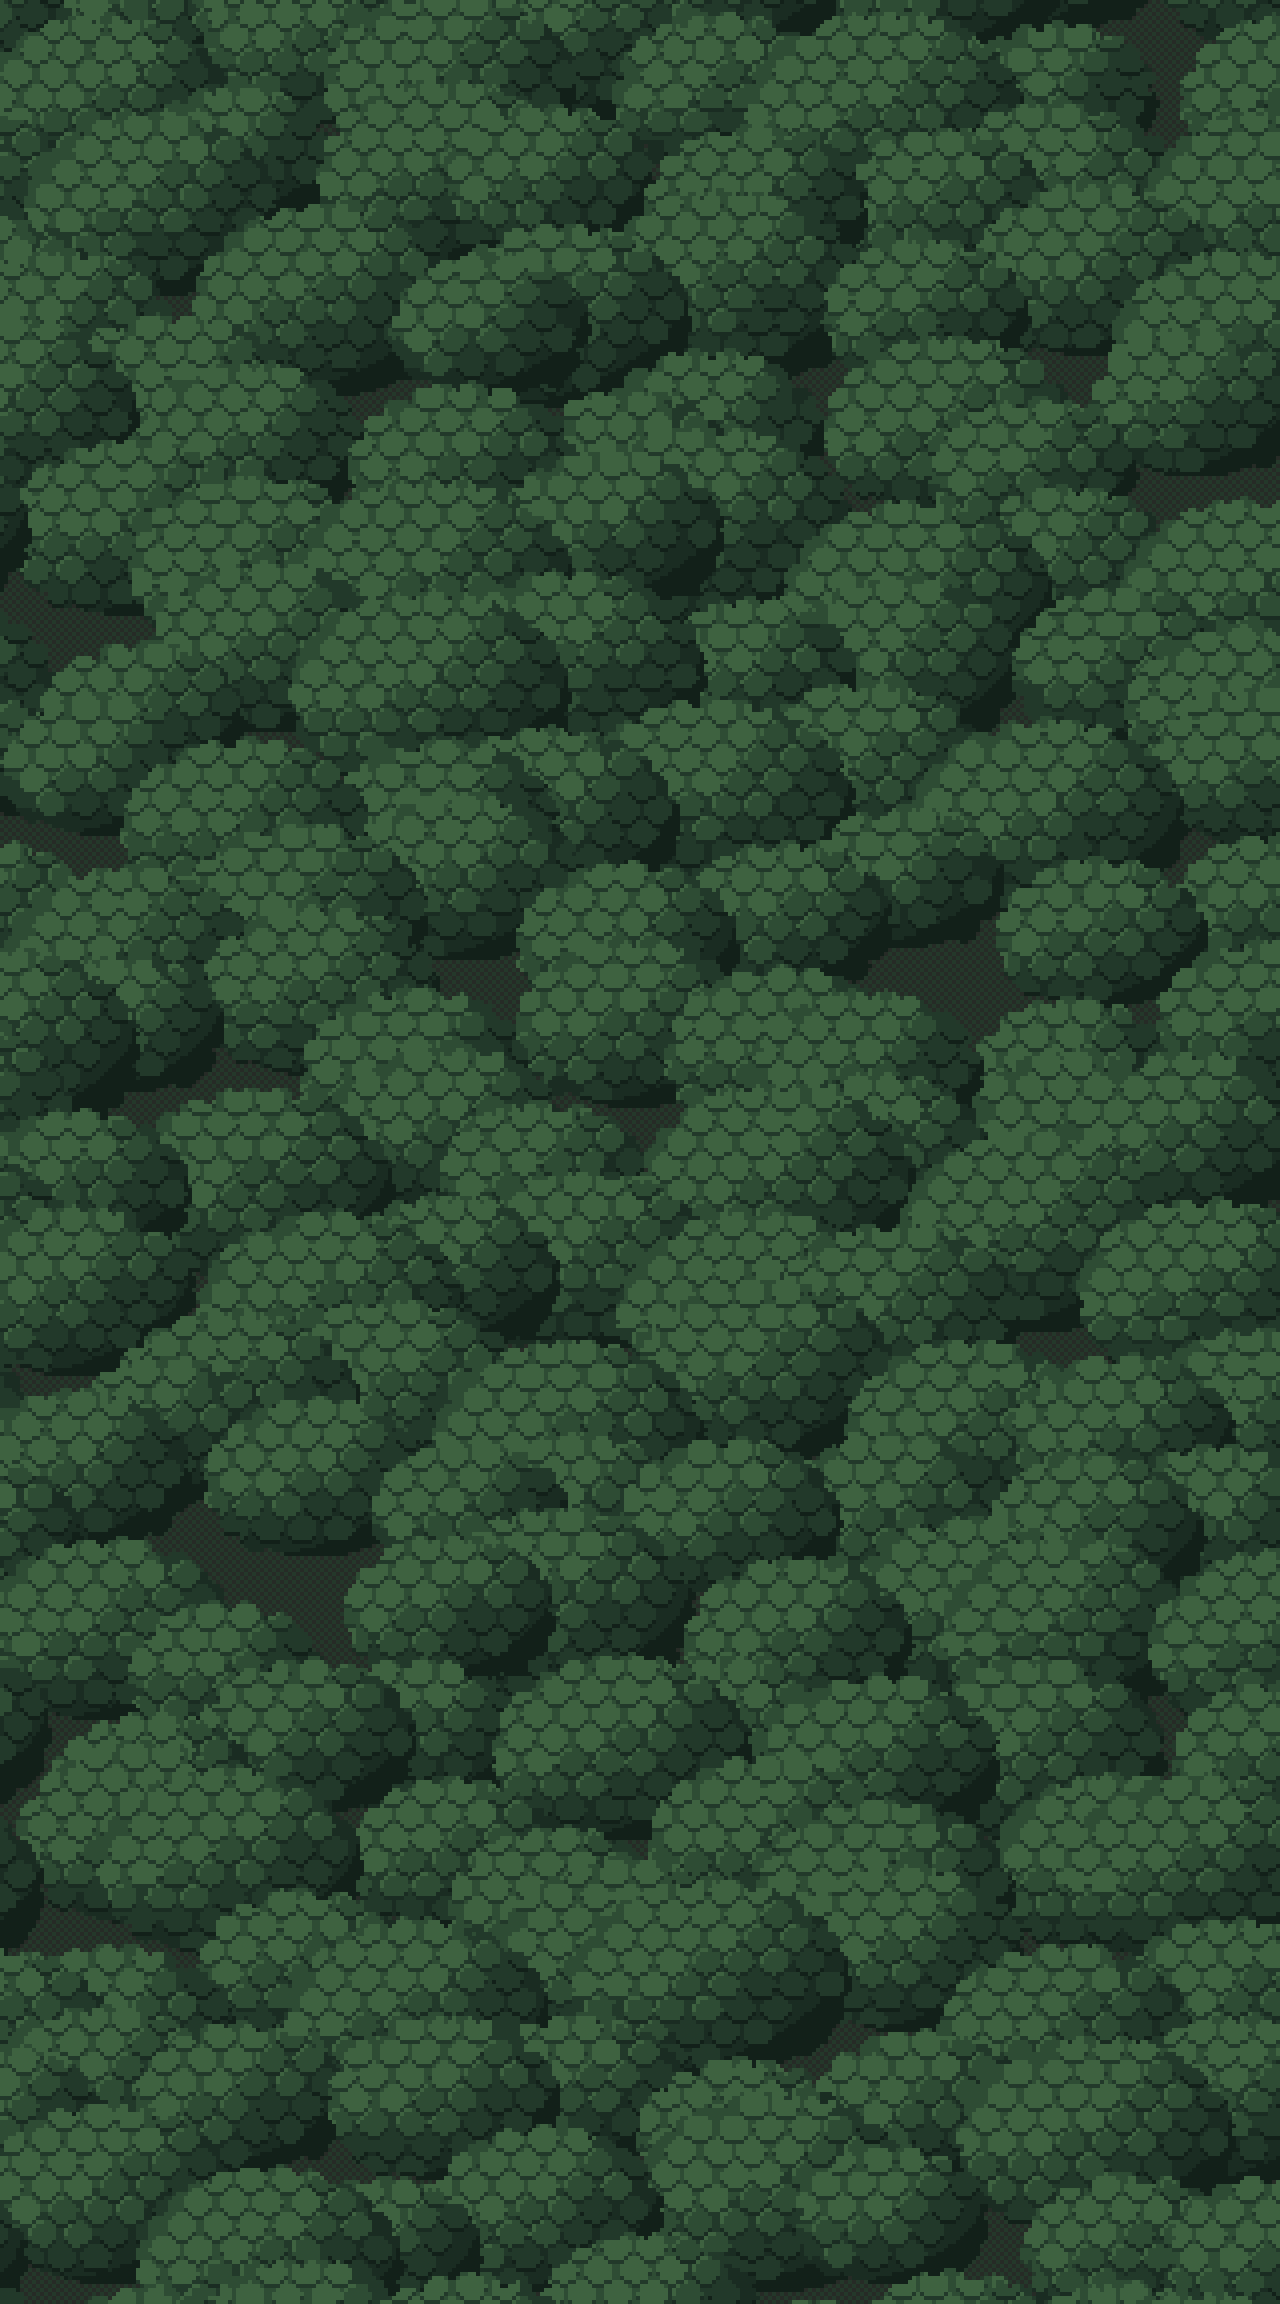
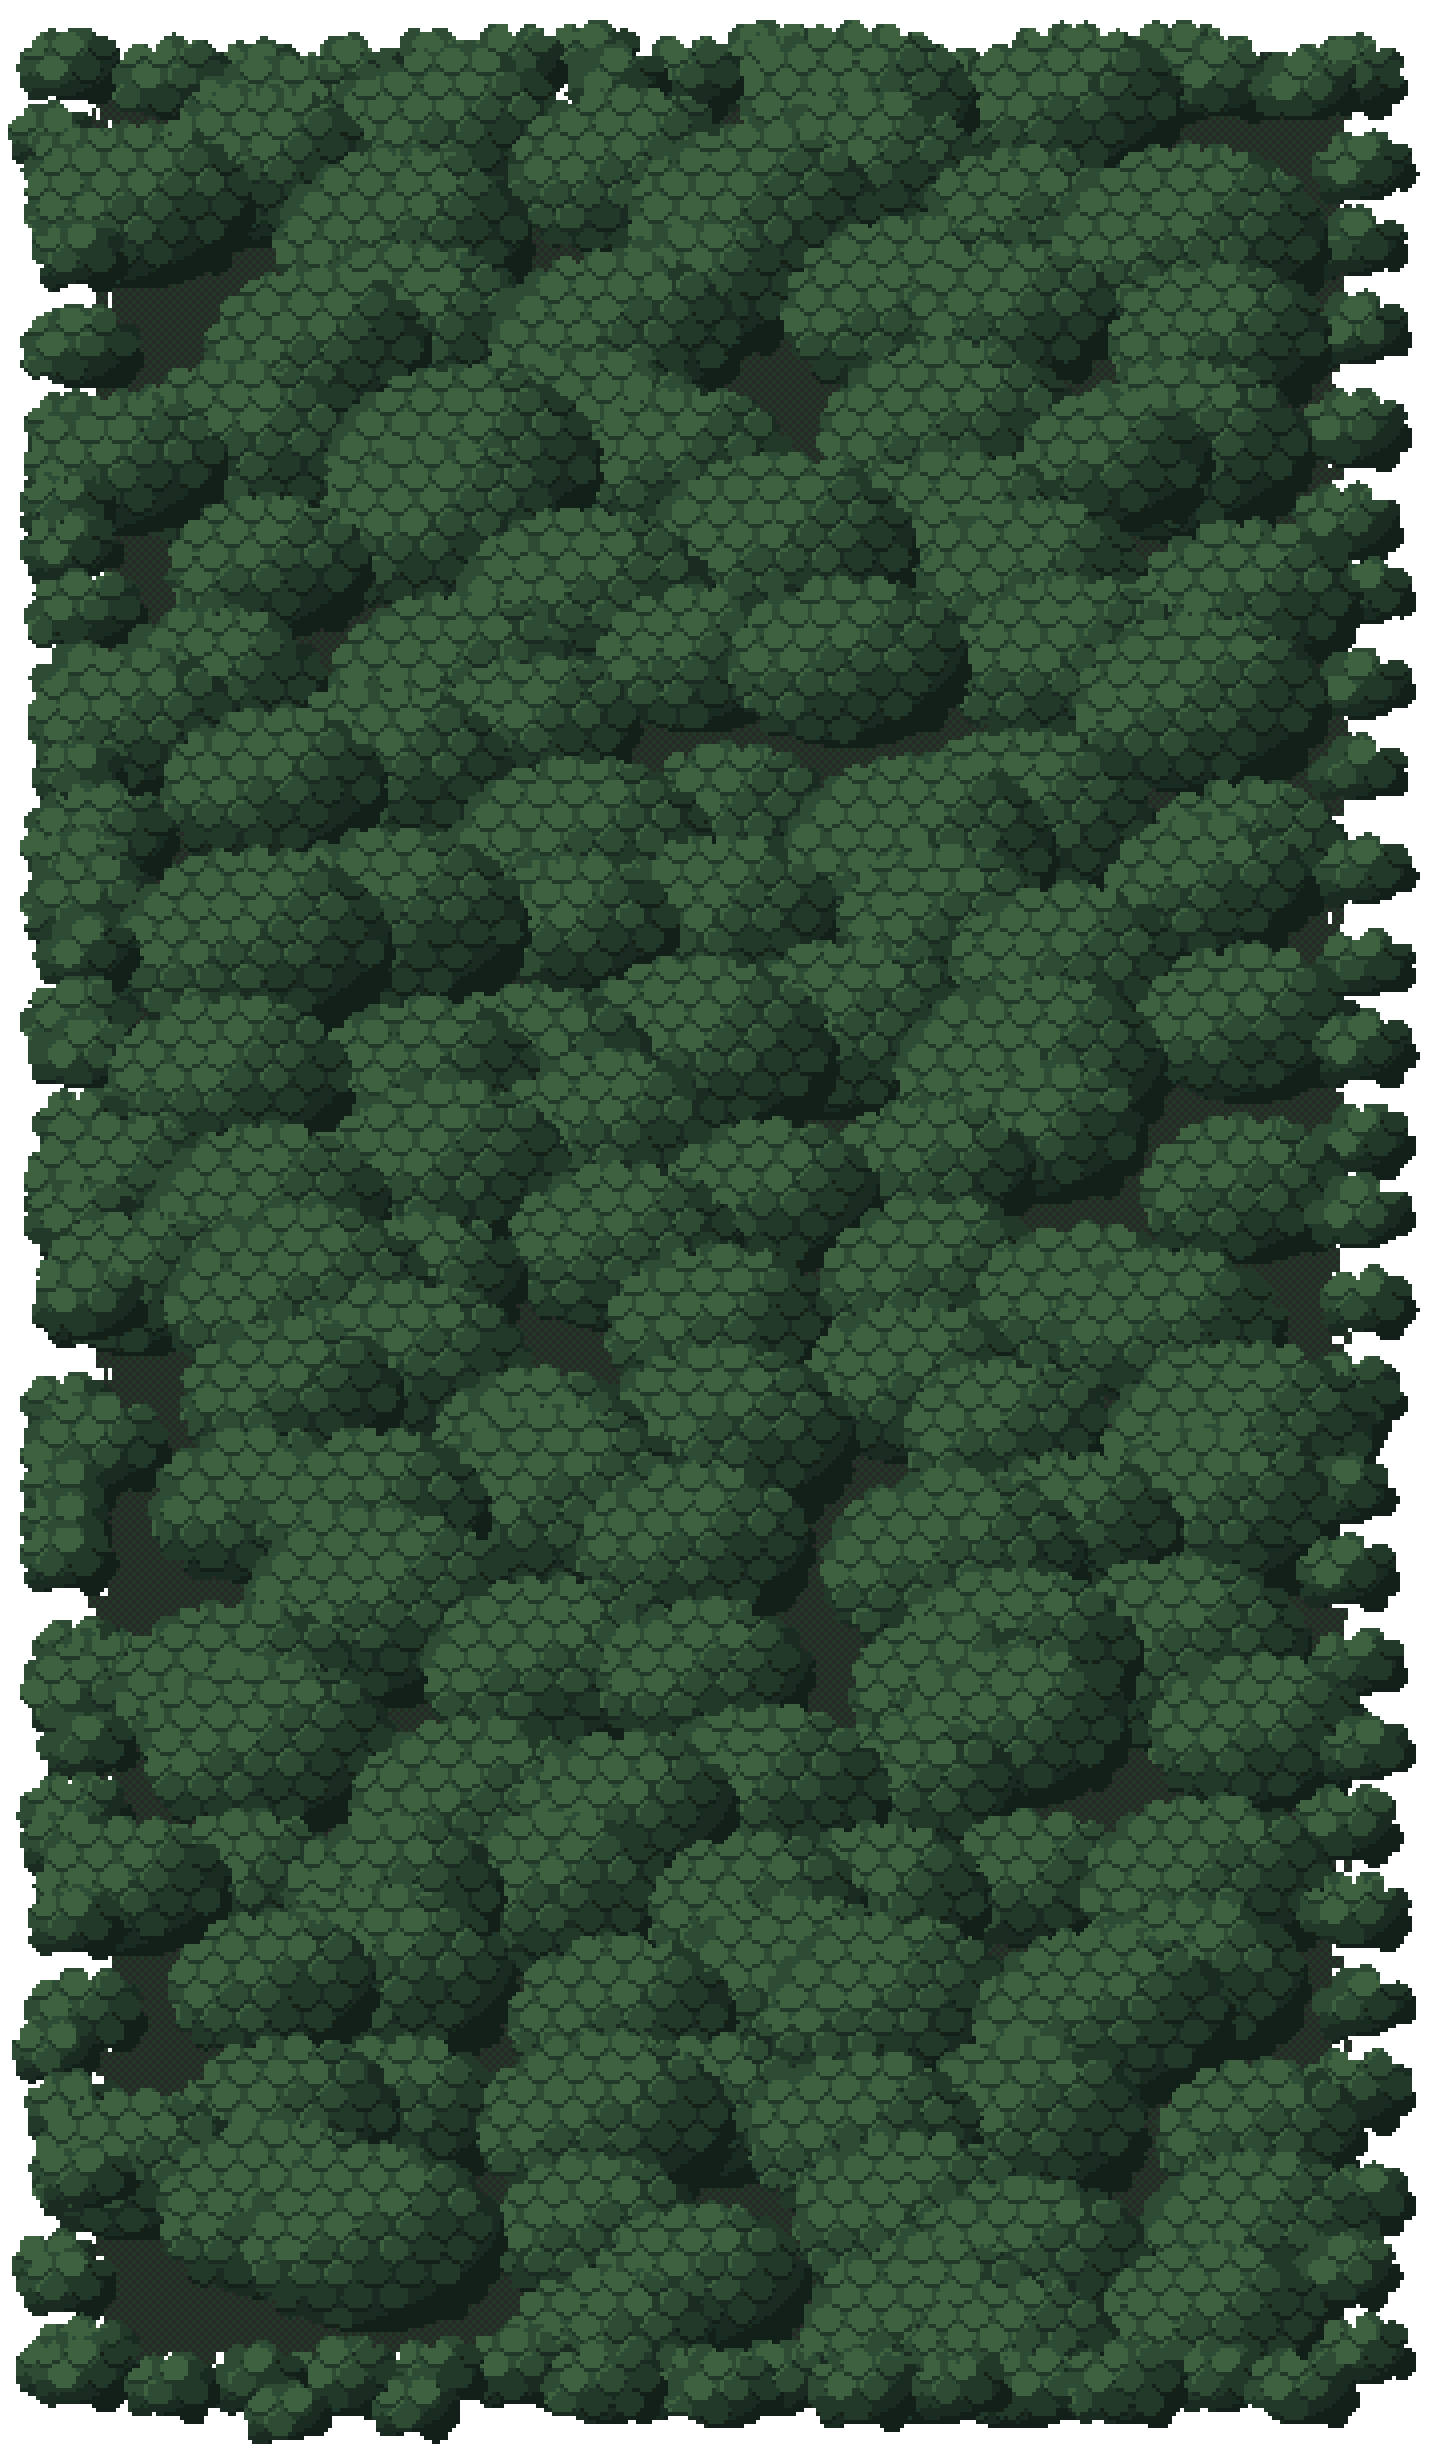
The old forest's edge is grown, not cut: its crowns spill a little over the zones beside it
Claude-Session: https://claude.ai/code/session_01UudrmtYkicLNgZeuSjvjrK

diff --git a/components/atlas-walk.tsx b/components/atlas-walk.tsx
@@ -35,7 +35,7 @@ import {
   type TileId,
 } from '@/lib/region-walk';
 import { zoneMaps, zoneOverhead, zoneWindows } from '@/lib/zone-maps';
-import { zoneBeyond, zoneGrounds, zoneProps } from '@/lib/zone-assets';
+import { BEYOND_SPILL, zoneBeyond, zoneGrounds, zoneProps } from '@/lib/zone-assets';
 import { GuardianPet } from '@/components/guardian-pet';
 import { ZoneLife, ZoneResidents } from '@/components/atlas-life';
 import { Pet } from '@/components/game-ui';
@@ -482,11 +482,13 @@ export function AtlasWalk({
               source={zoneBeyond}
               resizeMode="stretch"
               style={{
+                // its crowns spill over the zones beside it (above their ground, under their props)
                 position: 'absolute',
-                left: snap((g.col - bounds.minCol) * TILE.width * u),
-                top: snap((g.row - bounds.minRow) * TILE.height * u),
-                width: snap(TILE.width * u),
-                height: snap(TILE.height * u),
+                left: snap(((g.col - bounds.minCol) * TILE.width - BEYOND_SPILL) * u),
+                top: snap(((g.row - bounds.minRow) * TILE.height - BEYOND_SPILL) * u),
+                width: snap((TILE.width + 2 * BEYOND_SPILL) * u),
+                height: snap((TILE.height + 2 * BEYOND_SPILL) * u),
+                zIndex: 1,
               }}
             />
           ))}

diff --git a/lib/zone-assets.ts b/lib/zone-assets.ts
@@ -281,6 +281,7 @@ export const zoneGrounds: Record<ZoneId, ImageSourcePropType> = {
 import beyondImage from '@/assets/zones/beyond.png';
 /** Old forest, drawn where a region's grid has no zone (the valley's corners). */
 export const zoneBeyond: ImageSourcePropType = beyondImage;
+export const BEYOND_SPILL = 20;
 export const zoneProps: Record<string, ImageSourcePropType> = {
   acacia: propAcacia,
   airlock: propAirlock,

diff --git a/scripts/art/zones.py b/scripts/art/zones.py
@@ -3188,28 +3188,51 @@ def rle(row: str) -> str:
     return ''.join(out)
 
 
+BEYOND_SPILL = 20  # how far the forest's crowns spill over the zones beside it
+
+
 @functools.lru_cache(maxsize=1)
 def beyond() -> Canvas:
     """What lies past a region's own zones where its grid has a gap (the valley's corners):
-    old forest, a closed canopy of leaf masses in deep shade, lit only at their crowns,
-    each row overlapping the one behind it."""
-    cv = Canvas(W, H)
-    for y in range(H):
-        for x in range(W):
+    old forest, a closed canopy of leaf masses in deep shade, each row overlapping the
+    one behind it. Its outermost crowns spill a little over the neighbouring zones, so
+    the forest's edge is grown, not cut; the canvas is the zone plus that spill all round."""
+    S = BEYOND_SPILL
+    cv = Canvas(W + 2 * S, H + 2 * S)
+    for y in range(S, H + S):
+        for x in range(S, W + S):
+            # the shade under the canopy, its edge ragged so no straight line shows
+            m = 2 + int(noise2(x // 3, y // 3, 553) * 7)
+            if min(x - S, W + S - 1 - x, y - S, H + S - 1 - y) < m:
+                continue
             cv.set(x, y, style.FOREST_DARK if (x + y) % 2 else '#24382A')
     ramp = ['#122019', '#1A2C22', '#22392A', '#2E4C34', '#3E6240']
     crowns = []
     k = 0
-    for gy in range(-10, H + 30, 30):  # crowns on a jittered grid, so the canopy closes
-        for gx in range(-10, W + 30, 40):
+    for gy in range(S + 4, H + S, 30):  # crowns on a jittered grid, so the canopy closes
+        for gx in range(S + 6, W + S, 40):
             crowns.append((gy + (noise2(k, 1, 552) - 0.5) * 22, gx + (noise2(k, 0, 552) - 0.5) * 28,
                            22 + noise2(k, 2, 552) * 12, k))
             k += 1
+    for t in range(0, max(W, H) + 1, 22):  # small crowns straddling the edge all round
+        for (ex, ey) in ((S + t, S), (S + t, H + S), (S, S + t), (W + S, S + t)):
+            if S <= ex <= W + S and S <= ey <= H + S:
+                crowns.append((ey + (noise2(t, ex, 554) - 0.5) * 6, ex + (noise2(t, ey, 554) - 0.5) * 6,
+                               9 + noise2(ex, ey, 555) * 4, k))
+                k += 1
     for (cy, cx, rx, k) in sorted(crowns):
+        # crowns by the edge stay inside the canvas, so the spill ends in round crowns
+        rx = max(8.0, min(rx, cx - 8, cv.w - cx - 8, (cy - 8) / 0.72, (cv.h - cy - 8) / 0.72))
         ry = rx * 0.72
         blob = Canvas(int(rx * 2) + 14, int(ry * 2) + 14)
         style.leafy(blob, blob.w / 2, blob.h / 2, rx, ry, ramp, r=3.8, seed=k + 3)
-        cv.paste(blob, int(cx - blob.w / 2), int(cy - blob.h / 2))
+        bx, by = int(cx - blob.w / 2), int(cy - blob.h / 2)
+        for yy in range(blob.h):
+            for xx in range(blob.w):
+                c = blob.get(xx, yy)
+                X, Y = bx + xx, by + yy
+                if c[3] and 0 <= X < cv.w and 0 <= Y < cv.h:
+                    cv.set(X, Y, c)
     return cv
 
 
@@ -3271,6 +3294,7 @@ def export(built: dict):
         "import beyondImage from '@/assets/zones/beyond.png';",
         '/** Old forest, drawn where a region\'s grid has no zone (the valley\'s corners). */',
         'export const zoneBeyond: ImageSourcePropType = beyondImage;',
+        f'export const BEYOND_SPILL = {BEYOND_SPILL};',
         'export const zoneProps: Record<string, ImageSourcePropType> = {',
         *[f'  {k}: prop{ident(k)},' for k in sorted(used)],
         '};',
